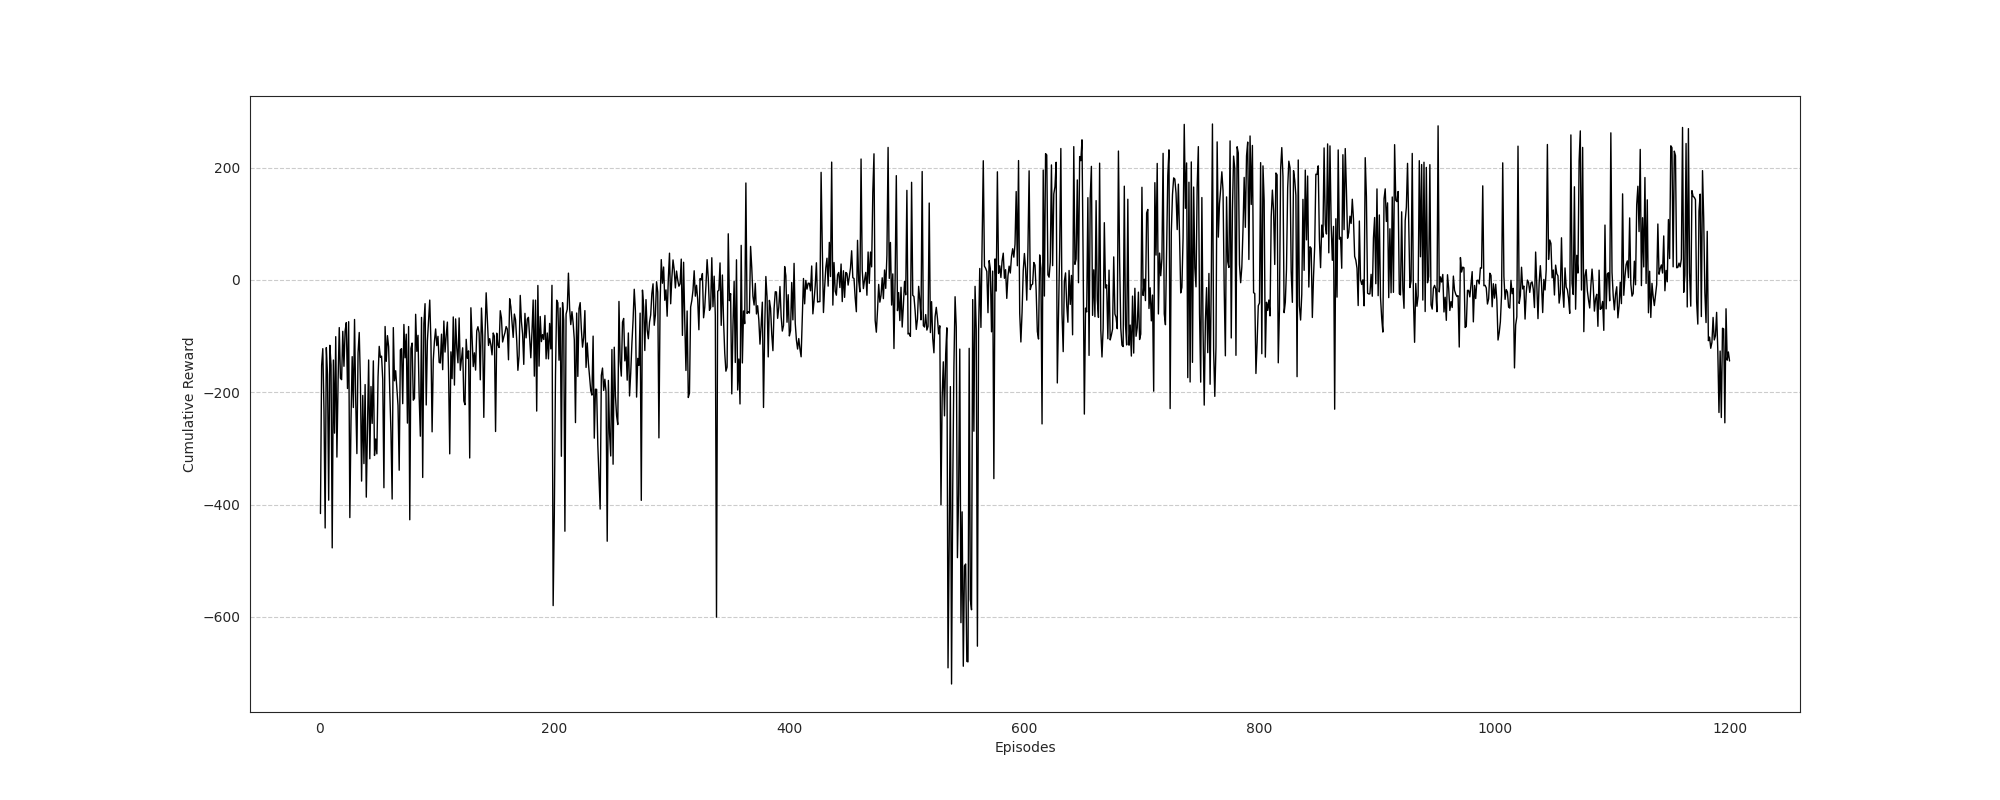
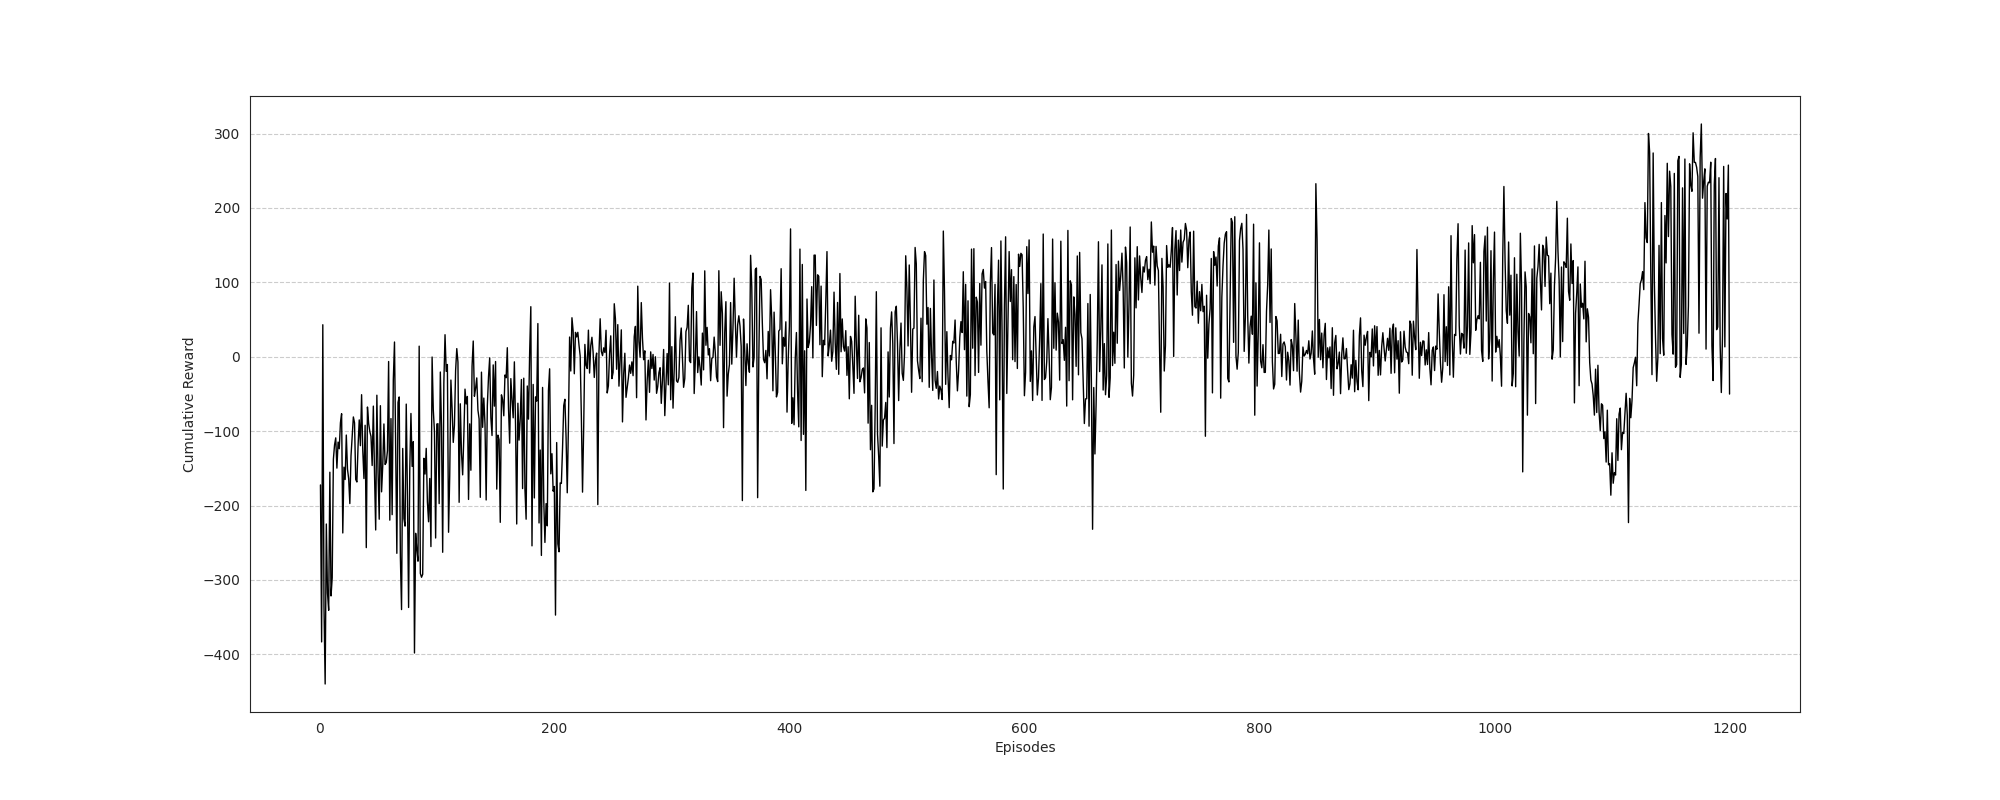
Tune REINFORCE LunarLander

diff --git a/gym_tests/inin.py b/gym_tests/inin.py
@@ -1,0 +1,122 @@
+import argparse
+import gym
+import numpy as np
+from itertools import count
+from collections import deque
+import torch
+import torch.nn as nn
+import torch.nn.functional as F
+import torch.optim as optim
+from torch.distributions import Categorical
+
+
+parser = argparse.ArgumentParser(description='PyTorch REINFORCE example')
+parser.add_argument('--gamma', type=float, default=0.99, metavar='G',
+                    help='discount factor (default: 0.99)')
+parser.add_argument('--seed', type=int, default=543, metavar='N',
+                    help='random seed (default: 543)')
+parser.add_argument('--render', action='store_true',
+                    help='render the environment')
+parser.add_argument('--log-interval', type=int, default=10, metavar='N',
+                    help='interval between training status logs (default: 10)')
+args = parser.parse_args()
+
+
+env = gym.make("Cartpole-v1")
+env.reset(seed=args.seed)
+torch.manual_seed(args.seed)
+
+
+class Policy(nn.Module):
+    def __init__(self):
+        super(Policy, self).__init__()
+        # self.affine1 = nn.Linear(8, 128)
+        # self.dropout = nn.Dropout(p=0.6)
+        self.feature_layer = nn.Sequential(
+            nn.Linear(4, 64),
+            nn.SiLU(),
+            nn.Linear(64, 128),
+            nn.SiLU(),
+            nn.Linear(128, 128),
+            nn.SiLU(),
+            nn.Dropout(0.6)
+        )
+        self.policy_layer = nn.Sequential(
+            nn.Linear(128, 128), 
+            nn.SiLU(),
+            nn.Linear(128, 2),
+            nn.Softmax(dim=1)
+        )
+
+        self.saved_log_probs = []
+        self.rewards = []
+
+    def forward(self, x):
+        x = self.feature_layer(x)
+        action_scores = self.policy_layer(x)
+        return action_scores
+
+
+policy = Policy()
+optimizer = optim.Adam(policy.parameters(), lr=1e-3)
+eps = np.finfo(np.float32).eps.item()
+
+
+def select_action(state):
+    state = torch.from_numpy(state).float().unsqueeze(0)
+    probs = policy(state)
+    m = Categorical(probs)
+    action = m.sample()
+    policy.saved_log_probs.append(m.log_prob(action))
+    return action.item()
+
+
+def finish_episode():
+    R = 0
+    policy_loss = []
+    returns = deque()
+    for r in policy.rewards[::-1]:
+        R = r + args.gamma * R
+        returns.appendleft(R)
+    returns = torch.tensor(returns)
+    returns = (returns - returns.mean()) / (returns.std() + eps)
+    for log_prob, R in zip(policy.saved_log_probs, returns):
+        policy_loss.append(-log_prob * R)
+    optimizer.zero_grad()
+    policy_loss = torch.cat(policy_loss).sum()
+    policy_loss.backward()
+    optimizer.step()
+    del policy.rewards[:]
+    del policy.saved_log_probs[:]
+
+    return policy_loss.item()
+
+
+def main():
+    running_reward = 10
+    for i_episode in range(1200):
+        state, _ = env.reset()
+        ep_reward = 0
+        for t in range(1, 1000):  # Don't infinite loop while learning
+            action = select_action(state)
+            state, reward, done, _, _ = env.step(action)
+            if args.render:
+                env.render()
+            policy.rewards.append(reward)
+            ep_reward += reward
+            if done:
+                break
+
+        running_reward = 0.05 * ep_reward + (1 - 0.05) * running_reward
+        loss = finish_episode()
+        if i_episode % args.log_interval == 0:
+            print('Episode {}\tLast reward: {:.2f}\tAverage reward: {:.2f} \tLoss {:.3f}'.format(
+                  i_episode, ep_reward, running_reward, loss))
+        if running_reward > env.spec.reward_threshold:
+            print("Solved! Running reward is now {} and "
+                  "the last episode runs to {} time steps!".format(running_reward, t))
+            break
+
+
+if __name__ == '__main__':
+    main()

diff --git a/xenon_crow/baselines/reinforce.py b/xenon_crow/baselines/reinforce.py
@@ -1,8 +1,7 @@
 from collections import deque
 import torch
 from torch.distributions import Categorical
-from torch.nn import Conv2d, Linear, Module, ReLU, Sequential, SiLU, Softmax, Dropout
-from torch.nn.functional import smooth_l1_loss
+from torch.nn import Conv2d, Linear, Module, ReLU, Sequential, SiLU, Softmax, LayerNorm
 from ..common import ReinforceBuffer
 
 
@@ -14,17 +13,21 @@ class MplReinforce(Module):
 
         self.feature_layer = Sequential(
             Linear(input_dim, 64),
+            LayerNorm(64),
             SiLU(),
             Linear(64, 128),
+            LayerNorm(128),
             SiLU(),
             Linear(128, 128),
+            LayerNorm(128),
             SiLU(),
             # Dropout(0.6)
         )
         self.policy_layer = Sequential(
             Linear(128, 128), 
-            SiLU(),
-            Linear(128, output_dim),
+            LayerNorm(128),
+            SiLU(), 
+            Linear(128, output_dim), 
             Softmax(dim=1)
         )
         self.value_layer = Sequential(Linear(128, 128), SiLU(), Linear(128, 1))
@@ -119,14 +122,15 @@ class ReinforceAgent(Module):
 
         rewards = torch.tensor(returns)
         # Use normilized rewards
+        # return rewards
         return (rewards - rewards.mean()) / (rewards.std() + self._eps)
-        # return 1.-(rewards - rewards.min()) / (rewards.max() - rewards.min())
+        # return (rewards - rewards.min()) / (rewards.max() - rewards.min())
 
     def __compute_loss(self):
         policy_loss = []
-        log_prob, _, rewards = self.replay_buffer.get_episode()
-        Gs = self.__compute_returns(rewards) 
-        for log_prob, R in zip(log_prob, Gs):
+        log_prob, values, rewards = self.replay_buffer.get_episode()
+        Gs = self.__compute_returns(rewards)
+        for log_prob, R, val in zip(log_prob, Gs, values):
             policy_loss.append(-log_prob * R)
 
         return torch.cat(policy_loss).sum()

diff --git a/gym_tests/reinforce_lunar_lander.py b/gym_tests/reinforce_lunar_lander.py
@@ -21,9 +21,8 @@ manual_seed(seed)
 
 MAX_EP = 1200
 
-GAMMA = 0.99
-LR = 1e-3
-BATCH_SIZE = 64
+GAMMA = 0.9999
+LR = 1e-4
 
 replay_buffer = ReinforceBuffer(
     data_handler=GymDataHandlerReinforce()
@@ -50,7 +49,7 @@ rewards = 0
 for t in range(1000):
     # Render to frames buffer
     frames.append(ENV.render())
-    action = agent.get_action(tensor(state, dtype=float32).unsqueeze(0))
+    action, *_ = agent.get_action(tensor(state, dtype=float32).unsqueeze(0))
     next_s, r, done, trunc, _ = ENV.step(action)
     rewards += r
 
